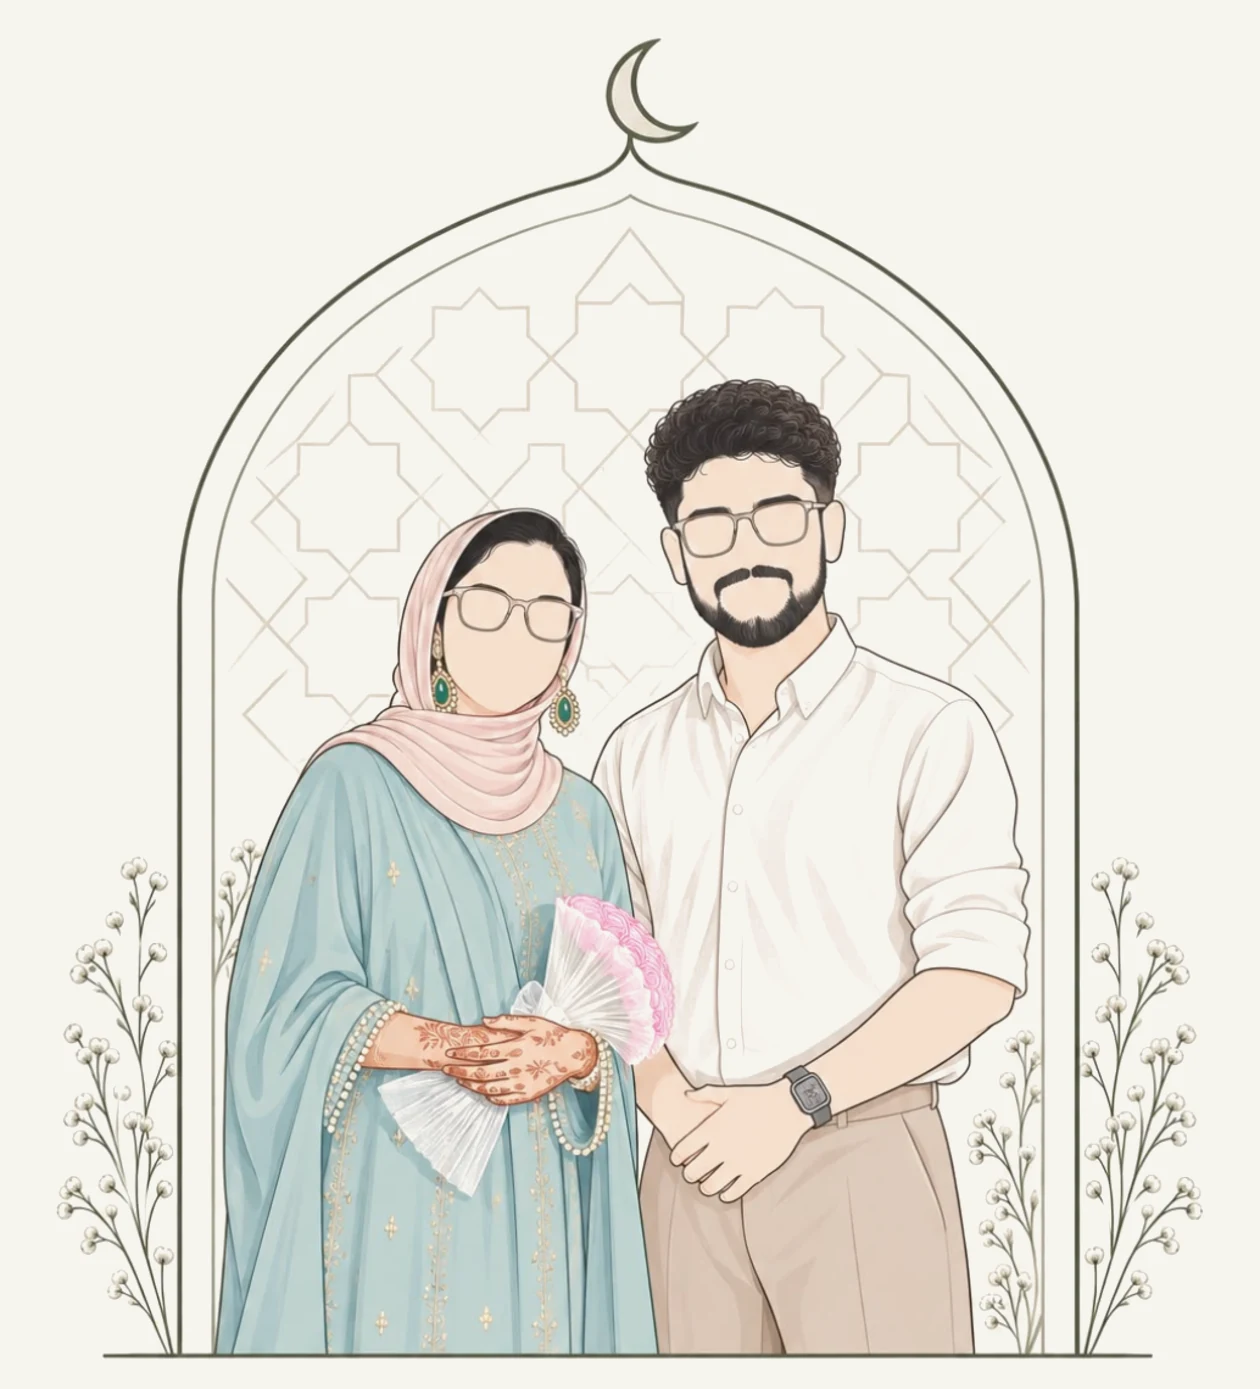
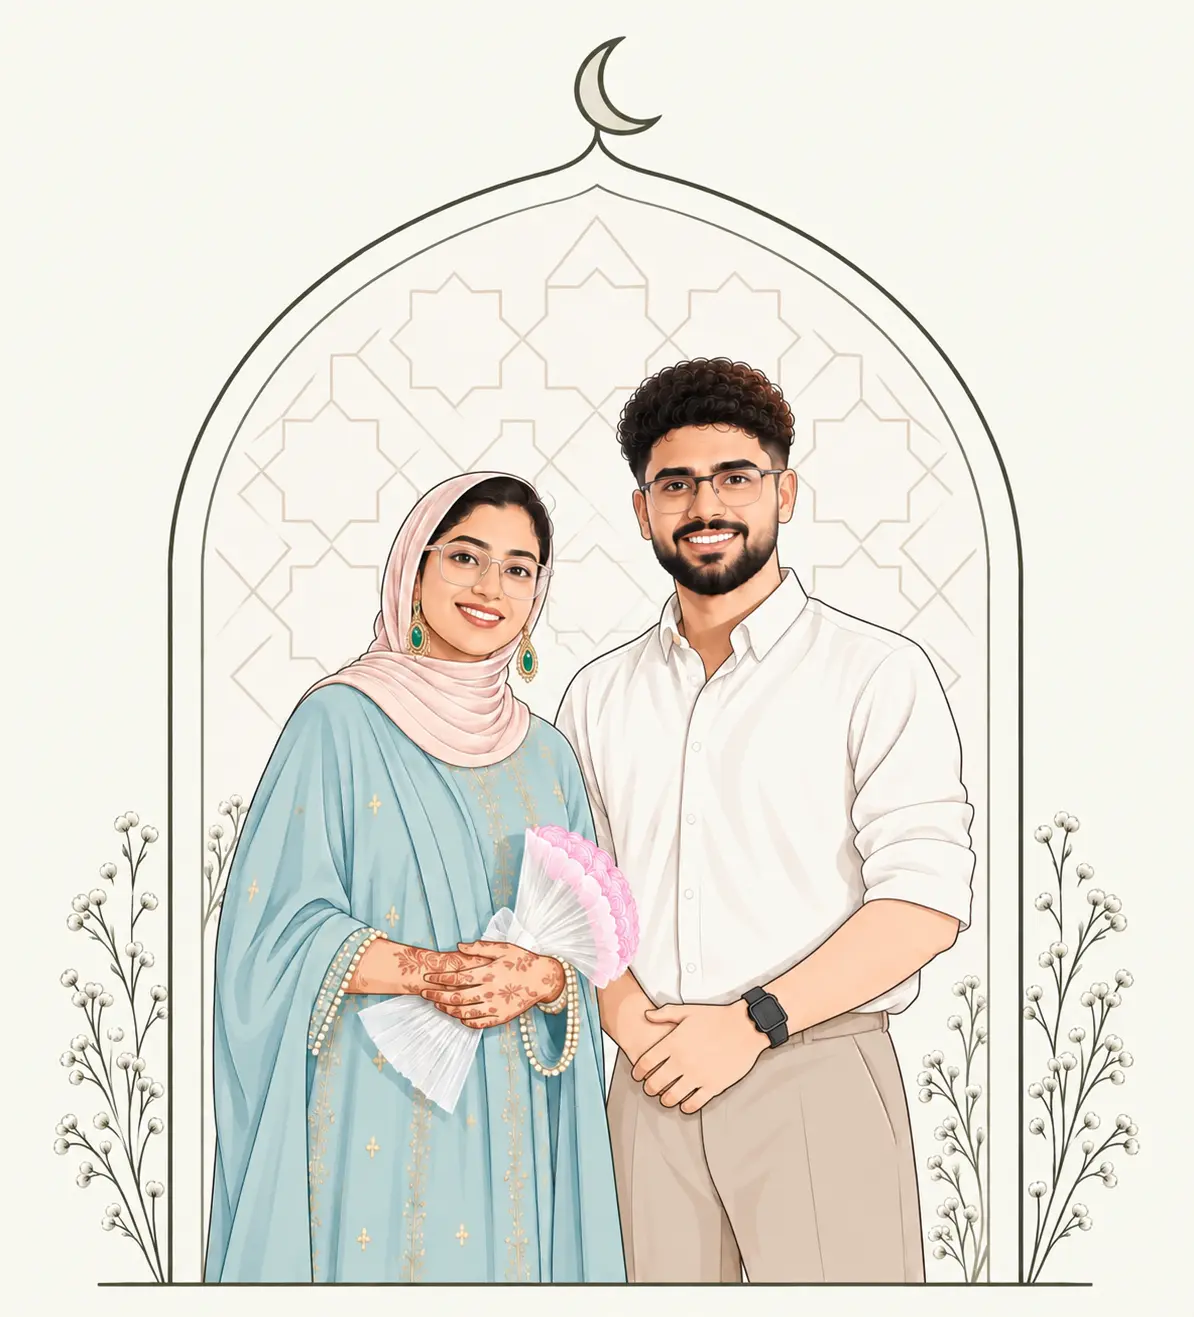
image replaced

diff --git a/src/components/MusicToggle.tsx b/src/components/MusicToggle.tsx
@@ -3,7 +3,7 @@ import { motion } from 'framer-motion'
 import { Volume2, VolumeX } from 'lucide-react'
 import { assets } from '../lib/site'
 
-const TARGET_VOLUME = 0.4
+const TARGET_VOLUME = 0.25
 const FADE_MS = 1800
 
 /**
